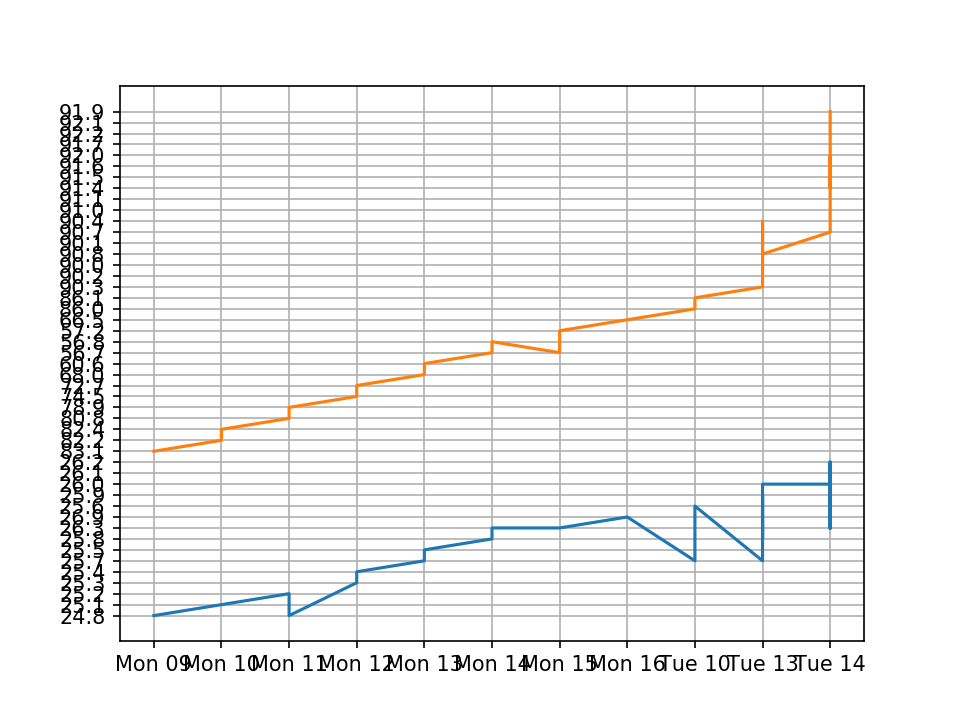
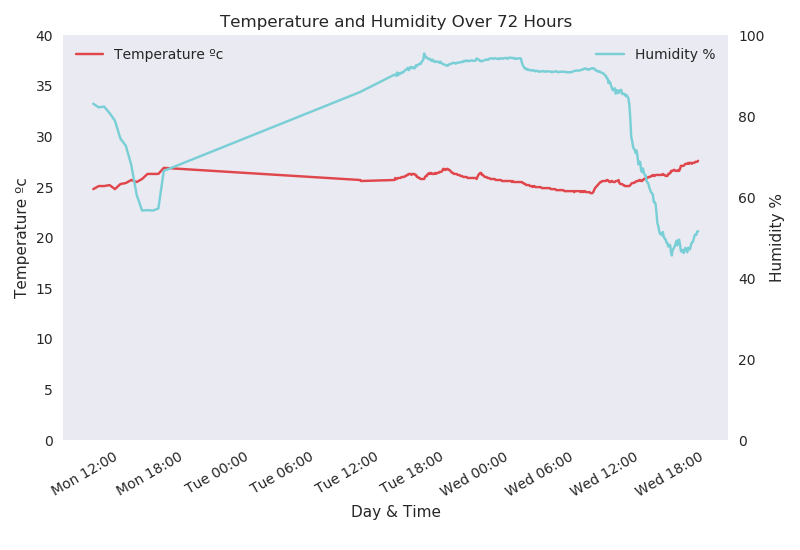
finally got it producing nice graphs every 5 mins

diff --git a/graphing.py b/graphing.py
@@ -1,9 +1,14 @@
 from matplotlib import pyplot as plt
+from matplotlib import dates as mpl_dates
 import csvlogging
-from time import strftime, localtime
+from time import strftime, strptime, localtime
+import datetime
 import csv
 
 CSVFILE = 'csvlog.csv'
+T_COLOUR = '#e0474c'
+H_COLOUR = '#7acfd6'
+plt.style.use('seaborn')
 
 def returnListFromCSV(CSVFILE):
     newList = []
@@ -11,25 +16,58 @@ def returnListFromCSV(CSVFILE):
         newList = list(csv.reader(csvFile))
     return newList
 
-def shortTime(time):
-    time = float(time)
-    try:
-        shortened_time = strftime("%a %H", localtime(time))
-    except ValueError:
-        pass
-    return shortened_time
+##def shortTime(time):
+##    time = float(time)
+##    try:
+##        shortened_time = strftime("%a %H", localtime(time))
+##    except ValueError:
+##        pass
+##    strpd = strptime(shortened_time, "%a %H")
+##    return dates.date2num(strpd)
 
 DATA_LIST = returnListFromCSV(CSVFILE)
 
-datetime_x = [shortTime(row[1]) for row in DATA_LIST[1:]]
-standard_y = [n for n in range(10,100, 5)]
-temp_y  = [row[2] for row in DATA_LIST[1:]]
-humid_y  = [row[3] for row in DATA_LIST[1:]]
+datetime_x = [datetime.datetime.fromtimestamp(float(row[1])) for row in DATA_LIST[1:]]
+temp_y  = [float(row[2]) for row in DATA_LIST[1:]]
+humid_y  = [float(row[3]) for row in DATA_LIST[1:]]
 
-plt.plot(datetime_x, temp_y)
-plt.plot(datetime_x, humid_y)
-plt.grid(True)
-plt.axis(tight=True,auto=True)
+fig, ax1 = plt.subplots()
+ax2 = ax1.twinx()
+
+templine = ax1.plot_date(datetime_x, temp_y,
+              color=T_COLOUR,
+              linestyle='solid',
+              marker=None,
+              label='Temperature ºc')
+ax1.set_ylim([0,40])
+humidline = ax2.plot_date(datetime_x, humid_y,
+              color=H_COLOUR,
+              linestyle='solid',
+              marker=None,
+              label='Humidity %')
+ax2.set_ylim([0,100])
 
 
-plt.savefig('graph.png', dpi=150)
+plt.title('Temperature and Humidity Over %s Hours' % csvlogging.TRASHTIME)
+ax1.set_xlabel('Day & Time')
+ax1.set_ylabel('Temperature ºc')
+ax2.set_ylabel('Humidity %')
+ax1.legend(loc=2)
+ax2.legend(loc=1)
+
+
+
+
+ax1.grid(False)
+ax2.grid(False)
+plt.tight_layout()
+plt.gcf().autofmt_xdate()
+date_format = mpl_dates.DateFormatter('%a %H:%M')
+plt.gca().xaxis.set_major_formatter(date_format)
+
+def export(name='graph.png'):
+    plt.savefig(name)
+
+if __name__ == '__main__':
+    export()
+

diff --git a/main.py b/main.py
@@ -1,0 +1,5 @@
+import csvlogging
+import graphing
+
+csvlogging.logCurrent()
+graphing.export()
